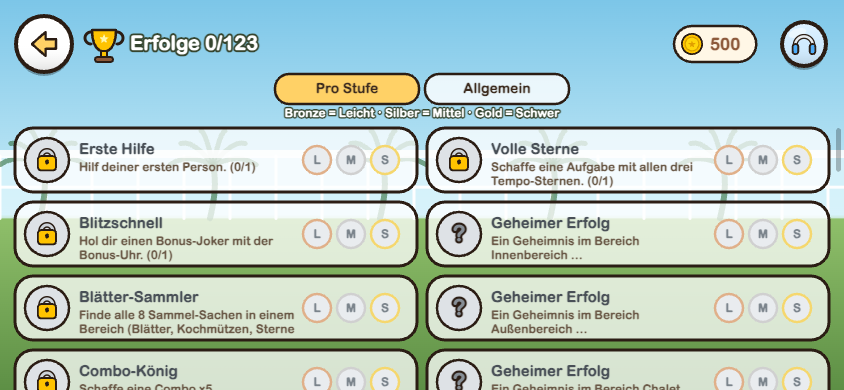
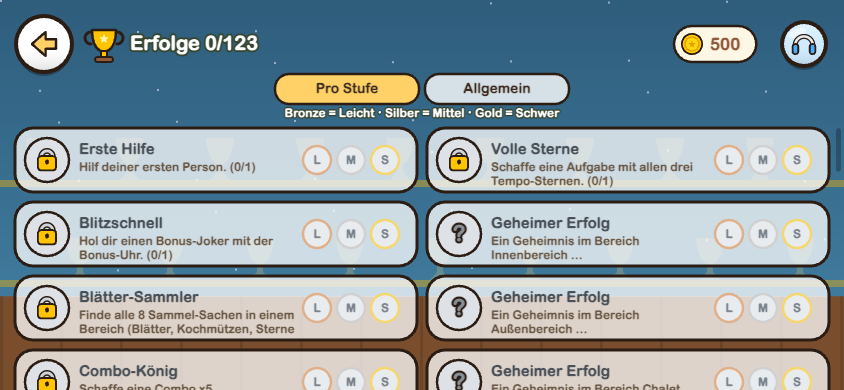
Runde 3: eigene Hintergründe für Laden, Garderobe, Figur-Editor, Erfolge und Mehrspieler; Laden-Schilder und Tiernamen überdecken keine Figuren mehr; Warteraum-Texte überlappen nicht mehr; Start-Test

diff --git a/js/meta.js b/js/meta.js
@@ -109,7 +109,7 @@ class Shop {
   }
   buy(price, fn, ok) { if (price >= 150 && !ok) { overlay = new ConfirmDialog({ text: 'Für ' + price + ' Taler kaufen?', icon: 'coin', onYes: () => this.buy(price, fn, true) }); return; } const m = META(); if (m.coins < price) { Sfx.play('bad'); this.say('Dafür fehlen dir noch ' + (price - m.coins) + ' Taler.'); return; } m.coins -= price; fn(m); Save.write(); Sfx.play('win'); FX.confetti(W / 2, H * 0.4, 40); achieve('einkauf'); }
   draw(c) {
-    skyBg(c);
+    themeBg(c, 'shop');
     const m = META(); if (!m) return;
     topBar(c, this.back);
     icon(c, 'shop', 104, 44, 40); txt(c, 'Laden', 130, 44, 24, '#fff', 'left', BRAND.olive);
@@ -120,11 +120,11 @@ class Shop {
     const top = 134, bottom = H - 16;
     if (this.tab === 'joker') {
       // Tages-Shop: jeden Tag 1 exklusiver Skin + 3 Skins mit Rabatt (für alle gleich, wechselt um Mitternacht)
-      const D = dailyOffers(), kind = ACC().char || 'cat', n = D.length, gap = 12, jh = 64, cw = Math.min(190, (W - 40 - gap * (n - 1)) / n), ch = Math.min(bottom - top - 26 - jh - 14, 230), x0 = (W - (cw * n + gap * (n - 1))) / 2;
+      const D = dailyOffers(), kind = ACC().char || 'cat', n = D.length, gap = 12, jh = 64, cw = Math.min(190, (W - 40 - gap * (n - 1)) / n), ch = Math.min(bottom - top - 36 - jh - 14, 230), x0 = (W - (cw * n + gap * (n - 1))) / 2;
       const ms = new Date(); ms.setHours(24, 0, 0, 0); const left = Math.max(0, ms - Date.now()), hh = Math.floor(left / 3600000), mm2 = Math.floor(left / 60000) % 60;
       txt(c, 'Neue Angebote in ' + hh + ' Std ' + mm2 + ' Min', W / 2, top + 4, 13, '#fff', 'center', BRAND.olive);
       D.forEach((o, i) => {
-        const x = x0 + i * (cw + gap), y = top + 20, sk = SKINS[o.id], own = m.skins.includes(o.id), bob = Math.sin(this.t * 2 + i) * 2;
+        const x = x0 + i * (cw + gap), y = top + 30, sk = SKINS[o.id], own = m.skins.includes(o.id), bob = Math.sin(this.t * 2 + i) * 2;
         rrPath(c, x, y + bob, cw, ch, 18); fs(c, own ? '#d8f5e3' : o.ex ? '#fff3bf' : '#fff', 3.5, o.ex ? '#c9a227' : OL);
         drawAnimal(c, kind, x + cw / 2, y + bob + ch - 60, Math.min(1.4, (ch - 66) / 80), { look: sk, cap: true, t: this.t + i });
         txt(c, sk.name, x + cw / 2, y + bob + ch - 52, 13, '#3d2c1f', 'center', null);
@@ -139,7 +139,7 @@ class Shop {
       { const today = new Date().toISOString().slice(0, 10); if (m.day !== today) { m.day = today; m.dayJ = 0; m.dayS = 0; }
         [['Aufgaben-Joker', 'joker', JOKER_PRICE, JOKERS_PER_DAY - (m.dayJ || 0), m.bank, mm => { mm.bank++; mm.dayJ = (mm.dayJ || 0) + 1; }, 'Schafft eine Aufgabe sofort.'],
          ['Such-Joker', 'search', 20, 5 - (m.dayS || 0), m.hint || 0, mm => { mm.hint = (mm.hint || 0) + 1; mm.dayS = (mm.dayS || 0) + 1; }, 'Zeigt sofort ein Versteck.']].forEach(([name, ic, price, left, have, give, desc], j) => {
-          const tw2 = cw * n + gap * (n - 1), bw = (tw2 - gap) / 2, x = x0 + j * (bw + gap), y = top + 20 + ch + 14, ok = left > 0, w = bw, h = jh;   /* Joker: eigene Zeile unter den Skins */
+          const tw2 = cw * n + gap * (n - 1), bw = (tw2 - gap) / 2, x = x0 + j * (bw + gap), y = top + 30 + ch + 14, ok = left > 0, w = bw, h = jh;   /* Joker: eigene Zeile unter den Skins */
           rrPath(c, x, y, w, h, 18); fs(c, ok ? '#e7f5ff' : '#e9ecef', 3.5);
           icon(c, ic, x + 34, y + h / 2, 38);
           txt(c, name, x + 62, y + 20, 14, '#3d2c1f', 'left', null);
@@ -214,8 +214,8 @@ class Shop {
       all.forEach(([k, price], i) => {
         const x = x0 + (i % cols) * (cw + gap), y = top + Math.floor(i / cols) * (ch + gap), own = ownedAnimals().includes(k), cur = ACC().char === k;
         rrPath(c, x, y, cw, ch, 16); fs(c, cur ? '#d8f5e3' : '#fff', 3);
-        drawAnimal(c, k, x + cw / 2, y + ch * 0.6, Math.min(1.6, ch / 115), { look: DEFAULT_LOOK, t: this.t + i, cap: false });
-        txt(c, ANIMAL_NAMES[k], x + cw / 2, y + ch - 30, 15, '#3d2c1f', 'center', null);
+        drawAnimal(c, k, x + cw / 2, y + ch - 38, Math.min(1.6, (ch - 42) / 76), { look: DEFAULT_LOOK, t: this.t + i, cap: false });   // Füße über dem Namen
+        txt(c, ANIMAL_NAMES[k], x + cw / 2, y + ch - 27, 14, '#3d2c1f', 'center', null);
         if (cur) txt(c, 'deine Figur', x + cw / 2, y + ch - 12, 12, '#2b9348', 'center', null);
         else if (own) txt(c, cw < 120 ? 'wählen' : 'antippen = wählen', x + cw / 2, y + ch - 12, 11, '#6b5a48', 'center', null);
         else { icon(c, 'coin', x + cw / 2 - 22, y + ch - 12, 16); txt(c, String(price), x + cw / 2 + 4, y + ch - 11, 13, '#8d5a3b', 'center', null); }
@@ -261,7 +261,7 @@ class Achievements {
   leave() { try { cv.removeEventListener('wheel', this.wheel); } catch (e) { /* egal */ } }
   update(dt) { this.t += dt; if (!this.drag && Math.abs(this.vel) > 5) { this.scroll += this.vel * dt; this.vel *= Math.pow(0.04, dt); } }
   draw(c) {
-    skyBg(c);
+    themeBg(c, 'trophy');
     const m = META(); if (!m) return;
     topBar(c, () => { this.leave(); this.back(); });
     const tab = this.tab, DF = ['easy', 'medium', 'hard'], hasD = (A, d) => !!m.ach[achKey(A.id, d)] || (d === 'medium' && !!m.ach[A.id]);
@@ -357,7 +357,7 @@ class MultiScene {
     if (r && r.status === 200) this.leave(new LobbyScene(r.data, r.data.opts.mode || 'duell')); else this.err = !r ? 'Gerade keine Verbindung. Versuch es gleich nochmal.' : r.status === 409 ? 'Dieses Spiel ist schon voll.' : 'Diesen Code gibt es nicht.';
   }
   draw(c) {
-    skyBg(c);
+    themeBg(c, 'park');
     topBar(c, () => (this.mode === 'menu' ? this.leave(new Menu()) : (this.mode = 'menu', nameInput.style.display = 'none')));
     icon(c, 'friends', 104, 44, 40); txt(c, 'Freunde & Mehrspieler', 130, 44, 20, '#fff', 'left', BRAND.olive);
     if (needOnline(c)) return;
@@ -461,16 +461,16 @@ class LobbyScene {
   start() { this.started = true; Sfx.play('win'); ACC().mpLast = { code: this.lob.code, at: Date.now() }; Save.write(); const m = new Match(this.lob, this.me); setScene(new Play(this.lob.opts.diff, { mp: m })); }
   update(dt) { this.t += dt; this.pollT += dt; if (this.pollT > 1.5) { this.pollT = 0; this.poll(); } }
   draw(c) {
-    skyBg(c);
+    themeBg(c, 'park');
     topBar(c, () => { api({ action: 'lobby_poll', code: this.lob.code, leave: true }); setScene(new MultiScene()); });
-    const w = Math.min(W - 30, 460), h = Math.min(H - 150, 290), x = (W - w) / 2, y = 76, py = y + Math.min(190, h - 60);
+    const w = Math.min(W - 30, 460), h = Math.min(H - 150, 290), x = (W - w) / 2, y = 76, py = y + Math.min(190, h - 78);
     panel(c, x, y, w, h, '#fff7e6', 24);
     const o = this.lob.opts, stars = { easy: 'Leicht', medium: 'Mittel', hard: 'Schwer' }[o.diff];
     txt(c, (o.size || 2) + ' Spieler · ' + (o.mode === 'team' ? 'Zusammen · ' + stars : (o.mode === '2v2' ? '2 gegen 2 · ' : 'Duell · ') + o.kids + (o.kids === 1 ? ' Person' : ' Leute') + ' pro Bereich' + (o.boss ? ' + Finale' : '') + ' · ' + stars), W / 2, y + 30, Math.min(18, w / 22), BRAND.olive, 'center', null);
     txt(c, 'Spiel-Code', W / 2, y + 62, 13, '#6b5a48', 'center', null);
-    { const url = location.href.split('?')[0].split('#')[0] + '?mit=' + this.lob.code, bx = W / 2 + 140, by = y + 100;
+    { const url = location.href.split('?')[0].split('#')[0] + '?mit=' + this.lob.code, bx = W / 2 + 140, by = y + 96;
       roundBtn(c, bx, by, 20, '#caffbf', 'friends', async () => { const t = 'Spiel mit mir „Mission: Im Original“! Code: ' + this.lob.code; try { if (navigator.share) await navigator.share({ title: 'Mission: Im Original', text: t, url }); else { await navigator.clipboard.writeText(t + ' ' + url); toast('Link kopiert', 'Schick ihn deinen Freunden', 'friends'); } } catch (e) { /* abgebrochen */ } }, '#2d6a4f');
-      txt(c, 'Teilen', bx, by + 30, 11, '#6b5a48', 'center', null);
+      if (h >= 270) txt(c, 'Teilen', bx, by + 30, 11, '#6b5a48', 'center', null);
       const Q = lobbyQR(url); if (Q && W > 620) { const n = Q.getModuleCount(), qs = Math.min(150, (W - x - w - 30)), cell = qs / (n + 2), qx = x + w + 14, qy = y; if (qs > 90) { rrPath(c, qx, qy, qs, qs + 22, 12); fs(c, '#fff', 3); c.fillStyle = '#212529'; for (let r = 0; r < n; r++) for (let k = 0; k < n; k++) if (Q.isDark(r, k)) c.fillRect(qx + (k + 1) * cell, qy + (r + 1) * cell, cell + 0.4, cell + 0.4); txt(c, 'Mit Handy scannen', qx + qs / 2, qy + qs + 8, 11, '#6b5a48', 'center', null); } } }   /* QR-Code: Freunde scannen statt abtippen */
     this.lob.code.split('').forEach((ch, i) => { const cx = W / 2 + (i - 1.5) * 52; rrPath(c, cx - 22, y + 74, 44, 52, 12); fs(c, '#fff', 3); txt(c, ch, cx, y + 101, 30, '#118ab2', 'center', null); });
     const size = o.size || 2, ppl = (this.lob.players || [this.lob.host, this.lob.guest].filter(Boolean)).slice(0, size); while (ppl.length < size) ppl.push(null);
@@ -478,15 +478,14 @@ class LobbyScene {
     ppl.forEach((p, i) => { const cx = W / 2 + (i - (size - 1) / 2) * gap, cy = py, teamCol = o.mode === '2v2' ? (i % 2 ? '#ffc8dd' : '#bde0fe') : null; ell(c, cx, cy - 10, 30, 30); fs(c, p ? (teamCol || '#d8f3dc') : '#e9ecef', 3);
       if (p) { drawCritter(c, AVATARS[(p.avatar || 0) % 6], cx, cy + 14, 0.9, this.t + i, { noShadow: true }); txt(c, p.name, cx, cy + 40, 13, '#3d2c1f', 'center', null); }
       else { const b = Math.sin(this.t * 4 + i) * 3; txt(c, '?', cx, cy - 10 + b, 26, '#adb5bd', 'center', null); txt(c, 'wartet …', cx, cy + 40, 12, '#adb5bd', 'center', null); } });
-    txt(c, o.mode === 'team' ? 'alle zusammen' : o.mode === '2v2' ? 'Blau gegen Rosa' : 'jeder gegen jeden', W / 2, Math.min(py + 62, y + h - 14), 13, '#6b5a48', 'center', null);
     const need = o.mode === '2v2' ? 4 : 2, have = ppl.filter(Boolean).length;
+    txt(c, o.mode === 'team' ? 'alle zusammen' : o.mode === '2v2' ? (have < 4 ? 'Für 2 gegen 2 braucht ihr 4 (' + have + '/4)' : 'Blau gegen Rosa') : 'jeder gegen jeden', W / 2, Math.min(py + 62, y + h - 14), 13, '#6b5a48', 'center', null);
     if (this.me === 'host' && have >= need) {
       const pu = 1 + Math.sin(this.t * 5) * 0.05; c.save(); c.translate(W / 2, y + h + 34); c.scale(pu, pu); rrPath(c, -110, -26, 220, 52, 22); fs(c, '#06d6a0', 3.5); txt(c, 'Los geht’s!', 0, 1, 20, '#fff', 'center', BRAND.ink); c.restore();
       UI.btn(W / 2 - 110, y + h + 8, 220, 52, () => this.poll({ start: true }));
     } else if (this.me === 'host' && o.mode === '2v2' && have >= 2) {
       rrPath(c, W / 2 - 130, y + h + 8, 260, 48, 20); fs(c, '#ffd166', 3); txt(c, 'Ohne Teams starten (' + have + ' Spieler)', W / 2, y + h + 33, 15, '#3d2c1f', 'center', null);
       UI.btn(W / 2 - 130, y + h + 8, 260, 48, () => this.poll({ start: true, asDuel: true }));
-      txt(c, 'Für 2 gegen 2 braucht ihr 4. (' + have + '/4)', W / 2, y + h + 72, 13, '#fff', 'center', BRAND.ink);
     } else txt(c, this.me === 'guest' ? 'Warte, bis ' + this.lob.host.name + ' startet …' : have < need ? 'Sag deinen Freunden den Code! (' + have + '/' + need + ')' : 'Sag deinen Freunden den Code!', W / 2, y + h + 30, 15, '#fff', 'center', BRAND.ink);
   }
 }

diff --git a/js/ui.js b/js/ui.js
@@ -21,6 +21,49 @@ function skyBg(c) {
   }
   c.fillStyle = 'rgba(255,255,255,.85)'; c.fillRect(0, gy - gh - 6, W, 8);
 }
+// Eigene Hintergründe je Bildschirm (Laden, Garderobe, Erfolge, Mehrspieler) – einmal gemalt und zwischengespeichert
+const BG_CACHE = {};
+function themeBg(c, kind) {
+  const key = kind + W + 'x' + H + 'x' + DPR; let cv2 = BG_CACHE[kind];
+  if (!cv2 || cv2.key !== key) {
+    cv2 = BG_CACHE[kind] = document.createElement('canvas'); cv2.key = key; cv2.width = Math.round(W * DPR); cv2.height = Math.round(H * DPR);
+    const g = cv2.getContext('2d'); g.setTransform(DPR, 0, 0, DPR, 0, 0); (THEME_BG[kind] || skyBg)(g);
+  }
+  c.save(); c.setTransform(1, 0, 0, 1, 0, 0); c.drawImage(cv2, 0, 0); c.restore();
+}
+const THEME_BG = {
+  shop(c) {   // Marktladen: warme Wand, Regale, Holzboden, Markise
+    const fy = H * 0.72, g = c.createLinearGradient(0, 0, 0, fy); g.addColorStop(0, '#f8e7c9'); g.addColorStop(1, '#efd3a8'); c.fillStyle = g; c.fillRect(0, 0, W, fy);
+    for (let y = 120; y < fy - 30; y += 92) { c.fillStyle = 'rgba(141,90,59,.28)'; c.fillRect(0, y + 44, W, 8);
+      for (let x = (y / 3) % 50; x < W; x += 50) { const k = Math.floor(x * 7 + y) % 4; c.fillStyle = ['rgba(239,71,111,.18)', 'rgba(6,214,160,.18)', 'rgba(255,209,102,.3)', 'rgba(17,138,178,.16)'][k]; if (k % 2) { rrPath(c, x, y + 14, 30, 30, 6); c.fill(); } else { ell(c, x + 15, y + 30, 13, 14); c.fill(); } } }
+    c.fillStyle = '#c8925c'; c.fillRect(0, fy, W, H - fy); c.strokeStyle = 'rgba(90,55,30,.25)'; c.lineWidth = 2;
+    for (let y = fy + 18; y < H; y += 22) { c.beginPath(); c.moveTo(0, y); c.lineTo(W, y); c.stroke(); }
+    for (let x = 0; x < W; x += 34) { ell(c, x + 17, 4, 17, 14); c.fillStyle = (x / 34) % 2 ? '#fff' : '#ef476f'; c.fill(); }
+  },
+  dress(c) {   // Umkleide: Streifentapete, Vorhänge, Glühbirnen, Teppich
+    const fy = H * 0.74; c.fillStyle = '#efe1f7'; c.fillRect(0, 0, W, fy);
+    for (let x = 0; x < W; x += 36) { c.fillStyle = 'rgba(181,131,214,.18)'; c.fillRect(x, 0, 18, fy); }
+    c.fillStyle = '#e9a6c4'; c.fillRect(0, fy, W, H - fy); c.fillStyle = 'rgba(255,255,255,.25)'; for (let x = 10; x < W; x += 40) { ell(c, x, fy + (H - fy) / 2, 10, 4); c.fill(); }
+    for (const side of [0, 1]) { const x0 = side ? W - 70 : 0; const g = c.createLinearGradient(x0, 0, x0 + 70, 0); g.addColorStop(0, '#9d2b48'); g.addColorStop(0.5, '#c9415f'); g.addColorStop(1, '#9d2b48'); c.fillStyle = g; c.fillRect(x0, 0, 70, fy + 8);
+      c.strokeStyle = 'rgba(0,0,0,.18)'; c.lineWidth = 2; for (let k = 1; k < 4; k++) { c.beginPath(); c.moveTo(x0 + k * 17, 0); c.lineTo(x0 + k * 17, fy + 8); c.stroke(); } }
+    for (let x = 90; x < W - 80; x += 46) { ell(c, x, 10, 7, 8); c.fillStyle = '#fff3bf'; c.fill(); c.strokeStyle = '#c9a227'; c.lineWidth = 2; c.stroke(); }
+  },
+  trophy(c) {   // Pokal-Saal: blaue Wand, Regale mit Pokal-Schatten, Funkeln
+    const fy = H * 0.76, g = c.createLinearGradient(0, 0, 0, fy); g.addColorStop(0, '#2f5d7c'); g.addColorStop(1, '#3f7a9c'); c.fillStyle = g; c.fillRect(0, 0, W, fy);
+    for (let y = 130; y < fy - 20; y += 100) { c.fillStyle = 'rgba(201,162,39,.55)'; c.fillRect(0, y + 50, W, 7);
+      for (let x = 30 + (y % 60); x < W; x += 90) { c.fillStyle = 'rgba(255,209,102,.22)'; c.beginPath(); c.moveTo(x - 14, y + 8); c.lineTo(x + 14, y + 8); c.quadraticCurveTo(x + 12, y + 30, x + 3, y + 34); c.lineTo(x + 3, y + 42); c.lineTo(x + 10, y + 50); c.lineTo(x - 10, y + 50); c.lineTo(x - 3, y + 42); c.lineTo(x - 3, y + 34); c.quadraticCurveTo(x - 12, y + 30, x - 14, y + 8); c.fill(); } }
+    c.fillStyle = 'rgba(255,255,255,.5)'; for (let i = 0; i < 40; i++) { const x = (i * 157) % W, y = (i * 89) % fy; c.fillRect(x, y, 2, 2); }
+    c.fillStyle = '#7a4e2d'; c.fillRect(0, fy, W, H - fy); c.fillStyle = 'rgba(0,0,0,.12)'; for (let x = 0; x < W; x += 60) c.fillRect(x, fy, 3, H - fy);
+  },
+  park(c) {   // Treffpunkt im Park: Himmel, Wolken, Hügel, Wimpelkette
+    const g = c.createLinearGradient(0, 0, 0, H); g.addColorStop(0, '#8fd3f4'); g.addColorStop(1, '#d6f1fb'); c.fillStyle = g; c.fillRect(0, 0, W, H);
+    c.fillStyle = 'rgba(255,255,255,.85)'; for (let i = 0; i < 5; i++) { const x = (i * 263 + 60) % W, y = 90 + (i * 37) % 70; ell(c, x, y, 40, 14); c.fill(); ell(c, x + 26, y - 8, 26, 14); c.fill(); }
+    c.fillStyle = '#9ccc6f'; c.beginPath(); c.moveTo(0, H); for (let x = 0; x <= W; x += 20) c.lineTo(x, H * 0.66 + Math.sin(x / 120) * 18); c.lineTo(W, H); c.fill();
+    c.fillStyle = '#6fa84f'; c.beginPath(); c.moveTo(0, H); for (let x = 0; x <= W; x += 20) c.lineTo(x, H * 0.78 + Math.sin(x / 90 + 2) * 12); c.lineTo(W, H); c.fill();
+    c.strokeStyle = 'rgba(61,44,31,.5)'; c.lineWidth = 2; c.beginPath(); c.moveTo(0, 60); c.quadraticCurveTo(W / 2, 100, W, 60); c.stroke();
+    for (let x = 14; x < W; x += 34) { const t = x / W, y = 60 + 4 * t * (1 - t) * 40 - 1; c.fillStyle = ['#ef476f', '#ffd166', '#06d6a0', '#118ab2'][Math.floor(x / 34) % 4]; c.beginPath(); c.moveTo(x - 9, y); c.lineTo(x + 9, y); c.lineTo(x, y + 18); c.fill(); }
+  },
+};
 // Titel: "Mission:" + das echte Im-Original-Logo
 function logo(c, x, y, s) {
   txt(c, 'Mission:', x, y - 58 * s, 26 * s, '#fff', 'center', BRAND.olive);
@@ -1002,7 +1045,7 @@ class Wardrobe {
   update(dt) { this.t += dt; }
   close() { if (overlay === this) overlay = null; }
   draw(c) {
-    c.fillStyle = 'rgba(16,28,18,.72)'; c.fillRect(0, 0, W, H);
+    themeBg(c, 'dress'); c.fillStyle = 'rgba(16,28,18,.25)'; c.fillRect(0, 0, W, H);   // Garderobe: eigene Umkleide statt abgedunkeltem Menü
     const land = W > H, w = Math.min(W - 20, land ? 860 : 560), h = Math.min(H - 20, 660), x = (W - w) / 2, y = (H - h) / 2;
     panel(c, x, y, w, h, '#fff7e6', 26);
     roundBtn(c, x + w - 30, y + 30, 22, '#ced4da', 'cross', () => this.close());

diff --git a/galerie.html b/galerie.html
@@ -17,31 +17,31 @@
 <canvas id="c"></canvas>
 <header><b>Galerie</b><a href="#items">Fundsachen</a><a href="#junk">Täuschungen</a><a href="#decor">Möbel &amp; Deko</a><a href="#people">Personen</a><a href="#animals">Tiere</a><a href="#skins">Skins</a><a href="#games">Aufgaben</a></header>
 <main id="m"></main>
-<script src="js/core.js?v=20261017d"></script>
-<script src="js/voiceclips.js?v=20261017d"></script>
-<script src="js/art.js?v=20261017d"></script>
-<script src="js/brand.js?v=20261017d"></script>
-<script src="js/games.js?v=20261017d"></script>
-<script src="js/games2.js?v=20261017d"></script>
-<script src="js/games3.js?v=20261017d"></script>
-<script src="js/games4.js?v=20261017d"></script>
-<script src="js/games5.js?v=20261017d"></script>
-<script src="js/games6.js?v=20261017d"></script>
-<script src="js/themes.js?v=20261017d"></script>
-<script src="js/stage.js?v=20261017d"></script>
-<script src="js/stage_kueche.js?v=20261017d"></script>
-<script src="js/stage_gastraum.js?v=20261017d"></script>
-<script src="js/stage_aussen.js?v=20261017d"></script>
-<script src="js/stage_chalet.js?v=20261017d"></script>
-<script src="js/stage_parkplatz.js?v=20261017d"></script>
-<script src="js/world.js?v=20261017d"></script>
-<script src="js/tutorial.js?v=20261017d"></script>
-<script src="js/ui.js?v=20261017d"></script>
-<script src="js/meta.js?v=20261017d"></script>
-<script src="js/secrets.js?v=20261017d"></script>
-<script src="js/admin.js?v=20261017d"></script>
-<script src="js/audio.js?v=20261017d"></script>
-<script src="js/editor.js?v=20261017d"></script>
+<script src="js/core.js?v=20261017e"></script>
+<script src="js/voiceclips.js?v=20261017e"></script>
+<script src="js/art.js?v=20261017e"></script>
+<script src="js/brand.js?v=20261017e"></script>
+<script src="js/games.js?v=20261017e"></script>
+<script src="js/games2.js?v=20261017e"></script>
+<script src="js/games3.js?v=20261017e"></script>
+<script src="js/games4.js?v=20261017e"></script>
+<script src="js/games5.js?v=20261017e"></script>
+<script src="js/games6.js?v=20261017e"></script>
+<script src="js/themes.js?v=20261017e"></script>
+<script src="js/stage.js?v=20261017e"></script>
+<script src="js/stage_kueche.js?v=20261017e"></script>
+<script src="js/stage_gastraum.js?v=20261017e"></script>
+<script src="js/stage_aussen.js?v=20261017e"></script>
+<script src="js/stage_chalet.js?v=20261017e"></script>
+<script src="js/stage_parkplatz.js?v=20261017e"></script>
+<script src="js/world.js?v=20261017e"></script>
+<script src="js/tutorial.js?v=20261017e"></script>
+<script src="js/ui.js?v=20261017e"></script>
+<script src="js/meta.js?v=20261017e"></script>
+<script src="js/secrets.js?v=20261017e"></script>
+<script src="js/admin.js?v=20261017e"></script>
+<script src="js/audio.js?v=20261017e"></script>
+<script src="js/editor.js?v=20261017e"></script>
 <script>
 // Galerie: zeigt alles mit den echten Zeichnungen aus dem Spiel
 (function () {

diff --git a/index.html b/index.html
@@ -20,31 +20,31 @@
 </head>
 <body>
 <canvas id="c"></canvas>
-<script src="js/core.js?v=20261017d"></script>
-<script src="js/voiceclips.js?v=20261017d"></script>
-<script src="js/art.js?v=20261017d"></script>
-<script src="js/brand.js?v=20261017d"></script>
-<script src="js/games.js?v=20261017d"></script>
-<script src="js/games2.js?v=20261017d"></script>
-<script src="js/games3.js?v=20261017d"></script>
-<script src="js/games4.js?v=20261017d"></script>
-<script src="js/games5.js?v=20261017d"></script>
-<script src="js/games6.js?v=20261017d"></script>
-<script src="js/themes.js?v=20261017d"></script>
-<script src="js/stage.js?v=20261017d"></script>
-<script src="js/stage_kueche.js?v=20261017d"></script>
-<script src="js/stage_gastraum.js?v=20261017d"></script>
-<script src="js/stage_aussen.js?v=20261017d"></script>
-<script src="js/stage_chalet.js?v=20261017d"></script>
-<script src="js/stage_parkplatz.js?v=20261017d"></script>
-<script src="js/world.js?v=20261017d"></script>
-<script src="js/tutorial.js?v=20261017d"></script>
-<script src="js/ui.js?v=20261017d"></script>
-<script src="js/meta.js?v=20261017d"></script>
-<script src="js/secrets.js?v=20261017d"></script>
-<script src="js/admin.js?v=20261017d"></script>
-<script src="js/audio.js?v=20261017d"></script>
-<script src="js/editor.js?v=20261017d"></script>
+<script src="js/core.js?v=20261017e"></script>
+<script src="js/voiceclips.js?v=20261017e"></script>
+<script src="js/art.js?v=20261017e"></script>
+<script src="js/brand.js?v=20261017e"></script>
+<script src="js/games.js?v=20261017e"></script>
+<script src="js/games2.js?v=20261017e"></script>
+<script src="js/games3.js?v=20261017e"></script>
+<script src="js/games4.js?v=20261017e"></script>
+<script src="js/games5.js?v=20261017e"></script>
+<script src="js/games6.js?v=20261017e"></script>
+<script src="js/themes.js?v=20261017e"></script>
+<script src="js/stage.js?v=20261017e"></script>
+<script src="js/stage_kueche.js?v=20261017e"></script>
+<script src="js/stage_gastraum.js?v=20261017e"></script>
+<script src="js/stage_aussen.js?v=20261017e"></script>
+<script src="js/stage_chalet.js?v=20261017e"></script>
+<script src="js/stage_parkplatz.js?v=20261017e"></script>
+<script src="js/world.js?v=20261017e"></script>
+<script src="js/tutorial.js?v=20261017e"></script>
+<script src="js/ui.js?v=20261017e"></script>
+<script src="js/meta.js?v=20261017e"></script>
+<script src="js/secrets.js?v=20261017e"></script>
+<script src="js/admin.js?v=20261017e"></script>
+<script src="js/audio.js?v=20261017e"></script>
+<script src="js/editor.js?v=20261017e"></script>
 <script>if ('serviceWorker' in navigator && location.protocol === 'https:') navigator.serviceWorker.register('sw.js').catch(() => {});</script>
 </body>
 </html>

diff --git a/tools/qa/boot.js b/tools/qa/boot.js
@@ -1,0 +1,15 @@
+// Start-Test: Seite mit gespeichertem Konto neu laden (fängt Fehler beim Start ab, z. B. Ladereihenfolge der Skripte)
+const { open, sleep } = require('./common');
+(async () => {
+  const { b, p, errs } = await open();
+  const cases = [['ohne Konto', () => localStorage.clear()], ['Konto ohne Figur', () => { ACC().char = null; Save.write(); }], ['Konto mit Figur', () => { ACC().char = 'cat'; Save.write(); }], ['Elternlimit', () => { const a = ACC(); a.char = 'cat'; a.limitMin = 20; a.playDay = new Date().toISOString().slice(0, 10); a.playSec = 9999; Save.write(); }]];
+  let bad = 0;
+  for (const [n, f] of cases) {
+    if (n !== 'ohne Konto') await p.evaluate(() => { Save.load(); Save.data.seenTrailer = true; if (!ACC()) createAccount('QA', [0, 0, 0, 0]); Save.write(); });
+    await p.evaluate(f); errs.length = 0; await p.reload(); await sleep(1500);
+    const sc = await p.evaluate(() => scene && scene.constructor.name);
+    const ok = sc && sc !== 'BootError' && !errs.some(e => /PAGEERROR/.test(e));
+    if (!ok) bad++; console.log(n.padEnd(18), sc, ok ? 'ok' : 'FEHLER ' + errs.join(' / '));
+  }
+  console.log(bad ? bad + ' Fehler' : 'Start ok'); await b.close();
+})();

diff --git a/tools/qa/ui2.js b/tools/qa/ui2.js
@@ -19,6 +19,7 @@ const { open, sleep } = require('./common'); const fs = require('fs');
   await S('verloren', () => { overlay = new GameOverlay('jump', { diff: 'medium', kind: 'challenge', item: 'tomate', seed: 3, onStop() {} }, () => {}); overlay.ready = true; overlay.cd = 0; overlay.state = 'lost'; overlay.timeLeft = 5; }, 800);
   await S('geschenke', () => { overlay = new GameOverlay('geschenke', { diff: 'hard', kind: 'challenge', item: 'tomate', seed: 3, onStop() {} }, () => {}); overlay.ready = true; overlay.cd = 0; }, 1500);
   await S('hilfe', () => { overlay = null; scene.helpOpen = true; });
+  await S('editor', () => { overlay = null; setScene(new CharEditor(() => setScene(new Menu()))); });
   await p.setViewport({ width: 390, height: 844, deviceScaleFactor: 1 });
   await S('hoch_menu', () => { overlay = null; setScene(new Menu()); });
   console.log('ERR', [...new Set(errs)].join(' / ') || 'none'); await b.close();

diff --git a/js/editor.js b/js/editor.js
@@ -40,7 +40,7 @@ class CharEditor {
   enter() { FX.clear(); Voice.say('Gestalte deine Figur.', true); }
   update(dt) { this.t += dt; }
   draw(c) {
-    skyBg(c);
+    themeBg(c, 'dress');
     const a = ACC(); if (!a) return; const u = a.custom;
     topBar(c, () => { Save.write(); this.back(); });
     txt(c, 'Figur bearbeiten', 104, 44, 22, '#fff', 'left', BRAND.olive);
